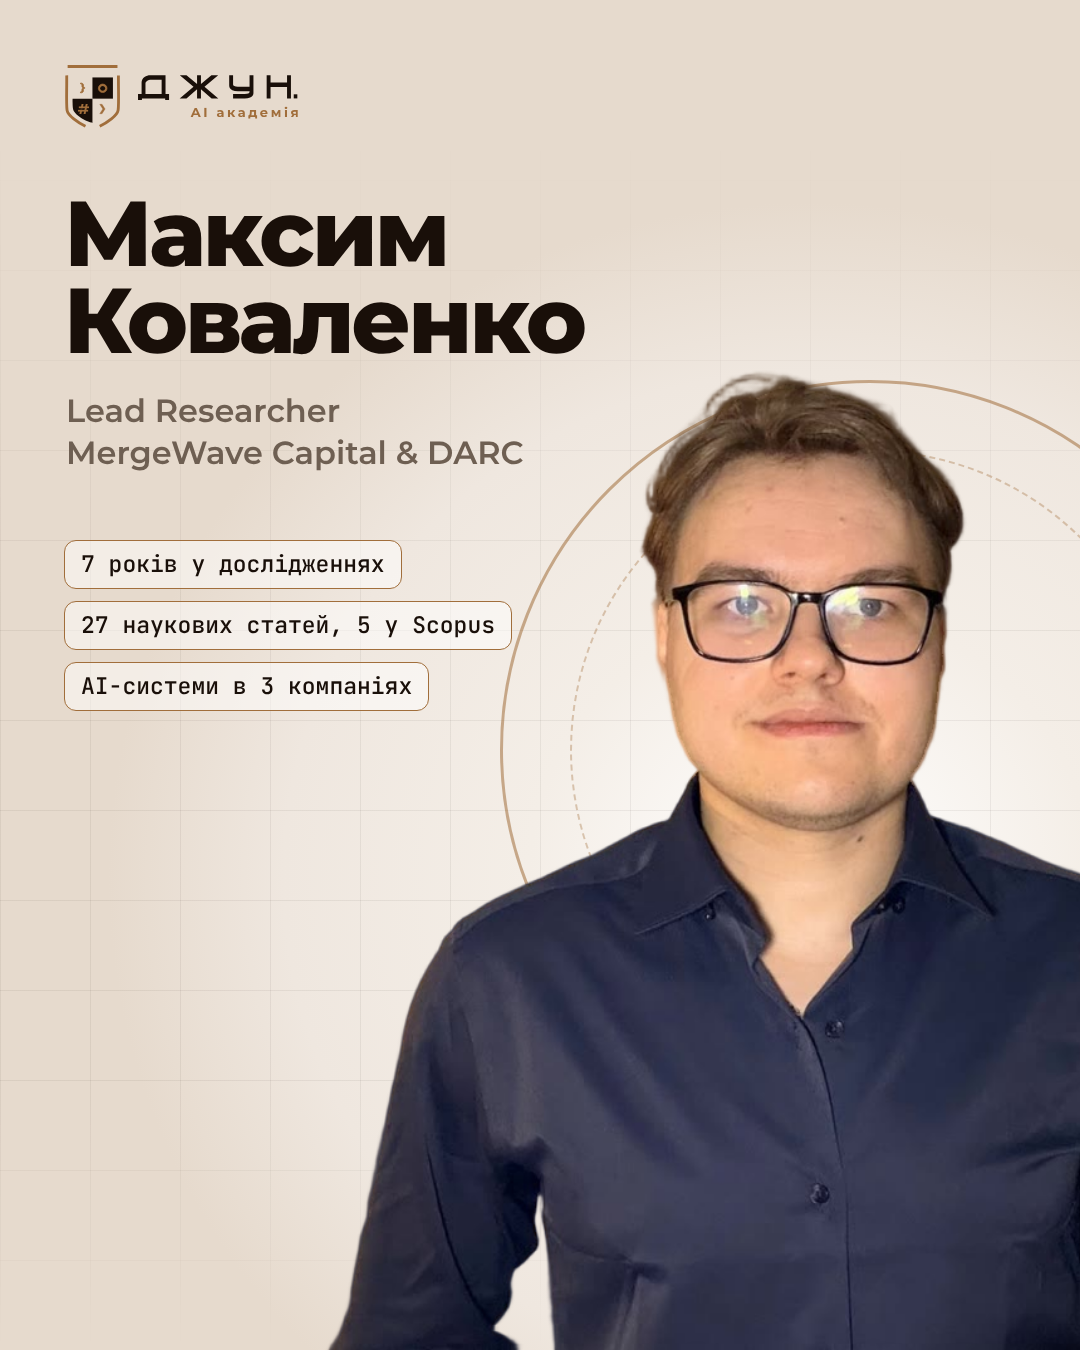
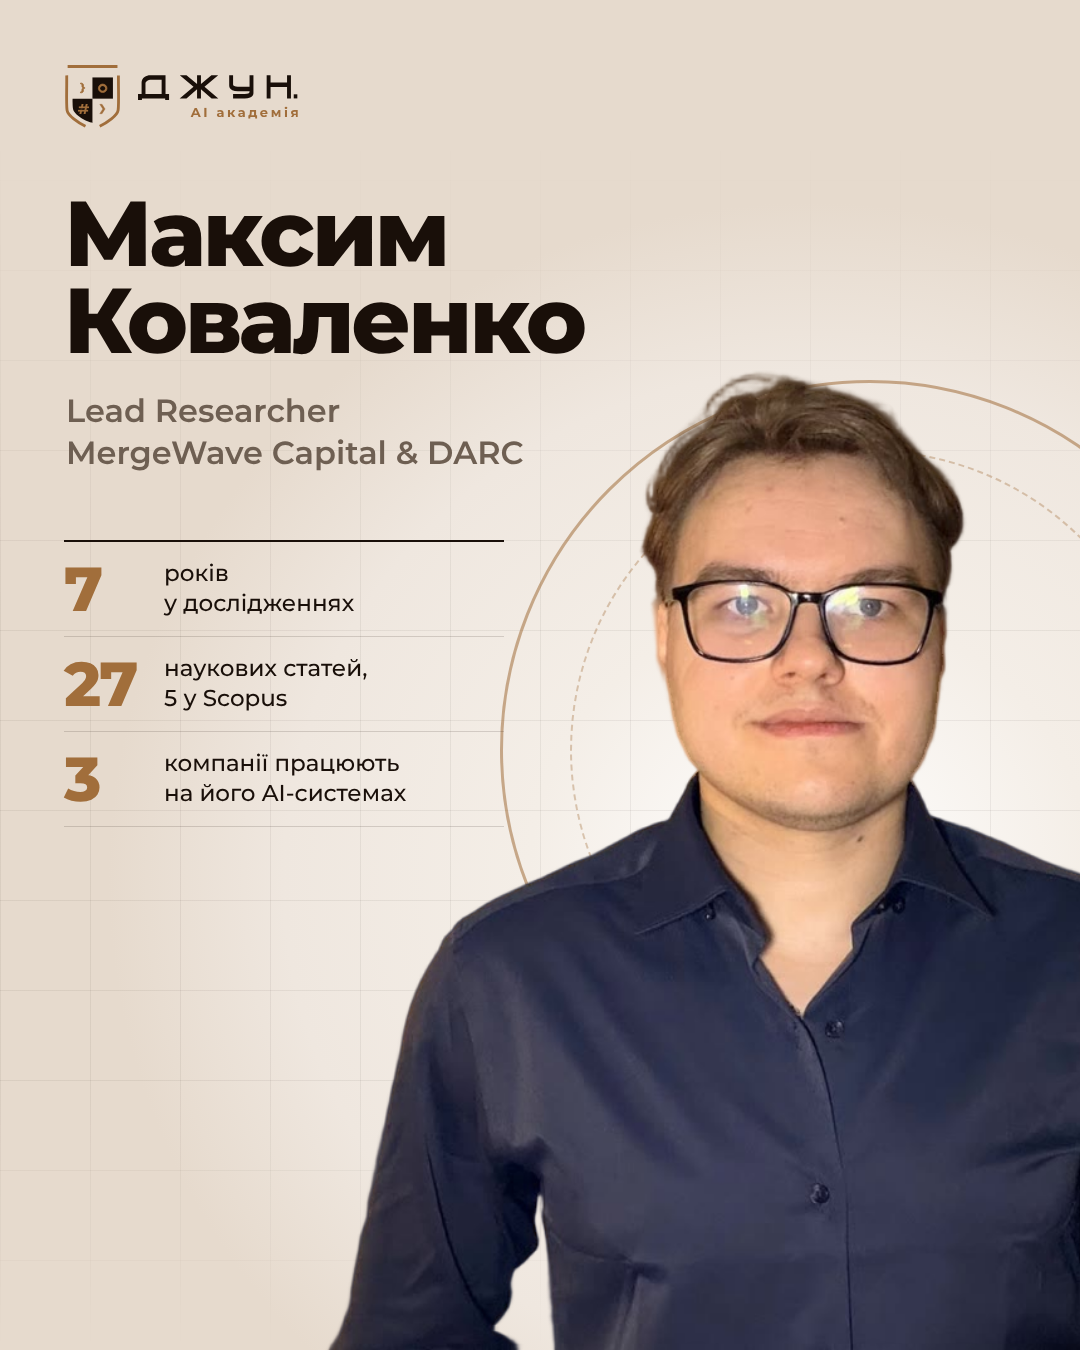
Maksym poster: facts as one stats block
Claude-Session: https://claude.ai/code/session_01F8vpXYV6V72iEGbNVpHMN7

Changed region(s): [[0.0611, 0.3733, 0.4583, 0.5289], [0.1528, 0.56, 0.3667, 0.5911], [0.0611, 0.56, 0.0917, 0.5911]]

diff --git a/2026-10-27_maksym/speaker/poster.html b/2026-10-27_maksym/speaker/poster.html
@@ -7,7 +7,7 @@
 .top{position:absolute;top:64px;left:64px;right:64px;display:flex;align-items:center;gap:16px}
 .top .w{display:flex;flex-direction:column;align-items:flex-end}.top small{font:700 13px/1 M;letter-spacing:.2em;color:#A16E3B;margin-top:6px;margin-right:-.2em}
 .top .r{margin-left:auto;font:500 24px/1 J;color:#190F09;opacity:.7}
-h1 em{font-style:normal;color:#A16E3B}.role{position:absolute;left:66px;top:390px;font:600 32px/1.3 M;color:#6E5F52}.facts{position:absolute;left:64px;top:540px;list-style:none;padding:0;display:flex;flex-direction:column;gap:12px}.facts li{font:500 23px/1 J;color:#190F09;padding:12px 16px;border:1.5px solid #A16E3B;border-radius:12px;align-self:flex-start;background:rgba(255,255,255,.5)}h1{position:absolute;left:64px;top:190px;font-weight:800;font-size:92px;line-height:.95;letter-spacing:-.035em;color:#190F09}
+h1 em{font-style:normal;color:#A16E3B}.role{position:absolute;left:66px;top:390px;font:600 32px/1.3 M;color:#6E5F52}.facts{position:absolute;left:64px;top:540px;width:440px;border-top:2px solid #190F09}.facts div{display:flex;align-items:center;gap:16px;padding:16px 0;border-bottom:1px solid rgba(25,15,9,.15)}.facts b{font:800 62px/1 M;color:#A16E3B;letter-spacing:-.03em;min-width:84px}.facts span{font:500 23px/1.3 M;color:#190F09}h1{position:absolute;left:64px;top:190px;font-weight:800;font-size:92px;line-height:.95;letter-spacing:-.035em;color:#190F09}
 .sub{position:absolute;left:66px;top:445px;font-weight:700;font-size:44px;line-height:1.12;color:#190F09}
 .sub em{font-style:normal;color:#A16E3B}
 .person{position:absolute;right:-230px;bottom:0;height:980px}
@@ -20,7 +20,7 @@ h1 em{font-style:normal;color:#A16E3B}.role{position:absolute;left:66px;top:390p
 </style>
 <div class="bg"></div><div class="grid"></div><div class="ring"></div><div class="ring2"></div>
 <div class="top"><img src="crest.svg" style="height:64px"><div class="w"><img src="letters.svg" style="height:26px"><small>AI академія</small></div></div>
-<h1>Максим<br>Коваленко</h1><div class="role">Lead Researcher<br>MergeWave Capital & DARC</div><ul class="facts"><li>7 років у дослідженнях</li><li>27 наукових статей, 5 у Scopus</li><li>AI-системи в 3 компаніях</li></ul>
+<h1>Максим<br>Коваленко</h1><div class="role">Lead Researcher<br>MergeWave Capital & DARC</div><div class="facts"><div><b>7</b><span>років<br>у дослідженнях</span></div><div><b>27</b><span>наукових статей,<br>5 у Scopus</span></div><div><b>3</b><span>компанії працюють<br>на його AI-системах</span></div></div>
 
 <img class="person" src="cutout.png">
 
